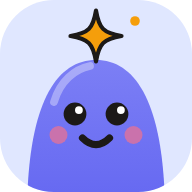
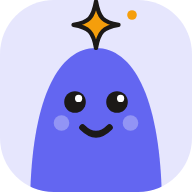
Work map in the Inbox and Plan; Saga mascot drawn exactly like the helpers
- Inbox → Map and Plan → Map: goals → jobs → handed on → waiting on you, left-to-right tree with counts,
  'What needs me' / 'All work', zoom, click to open. Job drawer: 'Where it fits'.
- Saga is now the helpers' own mascot (Chief's indigo, same body/face/tile) with a spark; fixes the invisible body
  (gradient id inside a hidden copy) by using unique ids per drawing.

Claude-Session: https://claude.ai/code/session_01QxtLq7shsGhTDDtPQtDiih

diff --git a/apps/web/components/WorkMap.tsx b/apps/web/components/WorkMap.tsx
@@ -1,0 +1,125 @@
+"use client";
+import { useCallback, useMemo, useState } from "react";
+import Avatar from "@/components/Avatar";
+import { InboxItem, api } from "@/lib/api";
+import { taskItems } from "@/lib/actions";
+import { menu } from "@/lib/menu";
+import { openTask } from "@/lib/open";
+import { usePoll } from "@/lib/poll";
+
+/* The work map: a tree drawn left to right. Your goals → the jobs the Chief of Staff handed out for them → what
+   helpers passed on → what is waiting on you (approvals, questions, alerts). Lines show who came from whom. */
+
+type PNode = { id: string; title: string; staff_id: string; staff: string; status: string; origin: string; created_at: string; headline: string;
+  proposals: { id: string; title: string; status: string }[]; children: PNode[] };
+type PGoal = { id: string; title: string; target: string; due: string; status: string; work: PNode[] };
+type Plan = { goals: PGoal[]; unlinked: PNode[] };
+
+type MNode = { key: string; kind: "goal" | "job" | "need" | "none"; title: string; sub: string; status?: string; staff?: { id: string; name: string };
+  taskId?: string; item?: InboxItem; children: MNode[]; x: number; y: number; need: number };
+
+const COL = 268, W = 228, H = 60, GAP = 14, PAD = 16;
+const NEED: Record<string, [string, string]> = { proposal: ["ri-checkbox-circle-line", "Approve"], question: ["ri-question-line", "Answer"], alert: ["ri-alarm-warning-line", "Alert"] };
+
+function build(plan: Plan, items: InboxItem[], onlyNeeds: boolean): MNode[] {
+  const byTask = new Map<string, InboxItem[]>();
+  for (const i of items) if (i.task_id) byTask.set(i.task_id, [...(byTask.get(i.task_id) || []), i]);
+  const job = (n: PNode): MNode => {
+    const needs: MNode[] = (byTask.get(n.id) || []).map((i) => ({ key: `i-${i.id}`, kind: "need", title: i.title, sub: NEED[i.kind]?.[1] || i.kind, item: i, taskId: n.id,
+      children: [], x: 0, y: 0, need: 1 }));
+    const kids = n.children.map(job);
+    const m: MNode = { key: `t-${n.id}`, kind: "job", title: n.title, sub: n.headline || n.origin, status: n.status, staff: { id: n.staff_id, name: n.staff }, taskId: n.id,
+      children: [...kids, ...needs], x: 0, y: 0, need: needs.length + kids.reduce((a, k) => a + k.need, 0) };
+    return m;
+  };
+  const prune = (ns: MNode[]): MNode[] => (onlyNeeds ? ns.filter((n) => n.need > 0).map((n) => ({ ...n, children: prune(n.children) })) : ns);
+  const roots: MNode[] = plan.goals.filter((g) => g.status === "active" || g.work.length).map((g) => {
+    const kids = g.work.map(job);
+    return { key: `g-${g.id}`, kind: "goal" as const, title: g.title, sub: g.target || (g.due ? `by ${g.due}` : "Set by you"), children: kids, x: 0, y: 0,
+      need: kids.reduce((a, k) => a + k.need, 0) };
+  });
+  const loose = plan.unlinked.map(job);
+  const linked = new Set<string>();
+  const walk = (n: MNode) => { if (n.taskId) linked.add(n.taskId); n.children.forEach(walk); };
+  [...roots, ...loose].forEach(walk);
+  const orphanNeeds: MNode[] = items.filter((i) => !i.task_id || !linked.has(i.task_id)).map((i) => ({ key: `i-${i.id}`, kind: "need", title: i.title,
+    sub: NEED[i.kind]?.[1] || i.kind, item: i, children: [], x: 0, y: 0, need: 1 }));
+  if (loose.length || orphanNeeds.length) {
+    roots.push({ key: "none", kind: "none", title: "Not linked to a goal", sub: "Work you or the team started without a goal", children: [...loose, ...orphanNeeds],
+      x: 0, y: 0, need: loose.reduce((a, k) => a + k.need, 0) + orphanNeeds.length });
+  }
+  return prune(roots);
+}
+
+function layout(roots: MNode[]): { w: number; h: number; all: MNode[] } {
+  let next = PAD, maxDepth = 0;
+  const all: MNode[] = [];
+  const place = (n: MNode, d: number) => {
+    maxDepth = Math.max(maxDepth, d);
+    n.x = PAD + d * COL;
+    if (!n.children.length) { n.y = next; next += H + GAP; }
+    else { n.children.forEach((c) => place(c, d + 1)); n.y = (n.children[0].y + n.children[n.children.length - 1].y) / 2; }
+    all.push(n);
+  };
+  roots.forEach((r) => { place(r, 0); next += GAP * 2; });
+  return { w: PAD * 2 + maxDepth * COL + W, h: Math.max(next, H + PAD * 2), all };
+}
+
+export default function WorkMap({ days = 30, defaultOnlyNeeds = true, onOpenItem }: { days?: number; defaultOnlyNeeds?: boolean; onOpenItem?: (i: InboxItem) => void }) {
+  const [plan, setPlan] = useState<Plan | null>(null);
+  const [items, setItems] = useState<InboxItem[]>([]);
+  const [onlyNeeds, setOnlyNeeds] = useState(defaultOnlyNeeds);
+  const [zoom, setZoom] = useState(1);
+  const load = useCallback(async () => {
+    const [p, i] = await Promise.all([api<Plan>(`/plan?days=${days}`), api<InboxItem[]>("/inbox?status=open")]);
+    setPlan(p); setItems(i);
+  }, [days]);
+  usePoll(load, 20000, [load], (n) => n?.kind === "inbox" || n?.kind?.startsWith("job"));
+  const { w, h, all } = useMemo(() => (plan ? layout(build(plan, items, onlyNeeds)) : { w: 0, h: 0, all: [] }), [plan, items, onlyNeeds]);
+  if (!plan) return <p className="small">Loading…</p>;
+
+  const open = (n: MNode) => {
+    if (n.kind === "need" && n.item) { if (onOpenItem) onOpenItem(n.item); else if (n.taskId) openTask(n.taskId, "approvals"); }
+    else if (n.taskId) openTask(n.taskId);
+  };
+  const edges = all.flatMap((n) => n.children.map((c) => {
+    const x1 = n.x + W, y1 = n.y + H / 2, x2 = c.x, y2 = c.y + H / 2, mx = (x1 + x2) / 2;
+    return <path key={`${n.key}>${c.key}`} d={`M${x1} ${y1} C${mx} ${y1}, ${mx} ${y2}, ${x2} ${y2}`} className={`wm-e ${c.kind === "need" ? "need" : ""}`} />;
+  }));
+  return (
+    <div className="wm">
+      <div className="wm-bar">
+        <div className="seg">
+          <button className={onlyNeeds ? "on" : ""} onClick={() => setOnlyNeeds(true)}>What needs me</button>
+          <button className={!onlyNeeds ? "on" : ""} onClick={() => setOnlyNeeds(false)}>All work ({days} days)</button>
+        </div>
+        <span className="small wm-legend"><i className="ri-flag-2-line" /> your goal <span>›</span> job <span>›</span> handed on <span>›</span> <b className="wm-need-dot" /> waiting on you</span>
+        <span className="sp" />
+        <button className="iconbtn" aria-label="Zoom out" onClick={() => setZoom(Math.max(0.5, zoom - 0.15))}><i className="ri-zoom-out-line" /></button>
+        <button className="iconbtn" aria-label="Zoom in" onClick={() => setZoom(Math.min(1.5, zoom + 0.15))}><i className="ri-zoom-in-line" /></button>
+      </div>
+      {all.length === 0 ? (
+        <div className="empty"><b>{onlyNeeds ? "Nothing waiting on you" : "No work yet"}</b><span>{onlyNeeds ? "Switch to All work to see everything that is going on." : "Jobs show up here as the team works."}</span></div>
+      ) : (
+        <div className="wm-scroll">
+          <div className="wm-canvas" style={{ width: w * zoom, height: h * zoom }}>
+            <div style={{ width: w, height: h, transform: `scale(${zoom})`, transformOrigin: "0 0", position: "relative" }}>
+              <svg width={w} height={h} className="wm-svg">{edges}</svg>
+              {all.map((n) => (
+                <div key={n.key} className={`wm-n ${n.kind} ${n.status || ""} ${n.item ? `k-${n.item.kind}` : ""}`} style={{ left: n.x, top: n.y, width: W, height: H }}
+                  role="button" tabIndex={0} onClick={() => open(n)} onKeyDown={(e) => { if (e.key === "Enter") open(n); }}
+                  onContextMenu={n.kind === "job" && n.taskId ? menu(() => taskItems({ id: n.taskId!, staff_id: n.staff!.id, brief: n.title, status: n.status || "" }, n.staff!.name)) : undefined}>
+                  {n.kind === "goal" || n.kind === "none" ? <span className="wm-ic"><i className={n.kind === "goal" ? "ri-flag-2-line" : "ri-question-line"} /></span>
+                    : n.kind === "need" ? <span className="wm-ic need"><i className={NEED[n.item?.kind || ""]?.[0] || "ri-inbox-line"} /></span>
+                    : <Avatar who={n.staff} size={24} state={n.status === "running" ? "working" : null} />}
+                  <span className="wm-t"><b>{n.title}</b><span>{n.kind === "job" ? `${n.staff?.name} · ${n.status}` : n.sub}</span></span>
+                  {n.need > 0 && n.kind !== "need" && <span className="wm-badge" title={`${n.need} waiting on you below`}>{n.need}</span>}
+                </div>
+              ))}
+            </div>
+          </div>
+        </div>
+      )}
+    </div>
+  );
+}

diff --git a/apps/web/app/globals.css b/apps/web/app/globals.css
@@ -1130,3 +1130,40 @@ button.pg-head { border: 0; background: none; padding: 0; text-align: left; curs
 .lin .lin-goal + .lin-job, .lin .lin-sep + .lin-job { flex: 1 1 auto; }
 .lin-sep, .lin-more { flex-shrink: 0; color: var(--faint); }
 .lin.plain { display: flex; gap: 6px; margin: 0 0 2px; font-size: 11px; } .lin.plain > span { display: inline-flex; align-items: center; gap: 3px; min-width: 0; max-width: 50%; overflow: hidden; text-overflow: ellipsis; white-space: nowrap; } .lin.plain .lin-goal { color: #15803d; background: none; }
+
+/* work map: goals → jobs → handed on → waiting on you */
+.wm { display: flex; flex-direction: column; gap: 10px; }
+.wm-bar { display: flex; align-items: center; gap: 10px; flex-wrap: wrap; }
+.wm-legend { display: inline-flex; align-items: center; gap: 5px; }
+.wm-legend span { color: var(--faint); }
+.wm-need-dot { width: 8px; height: 8px; border-radius: 50%; background: #eb6834; display: inline-block; }
+.wm-scroll { overflow: auto; border: 1px solid var(--line); border-radius: var(--r-lg); background:
+  radial-gradient(circle, rgba(168, 162, 158, .25) 1px, transparent 1.2px) 0 0 / 18px 18px, var(--soft); max-height: calc(100dvh - 250px); min-height: 320px; }
+.wm-canvas { position: relative; }
+.wm-svg { position: absolute; inset: 0; pointer-events: none; }
+.wm-e { fill: none; stroke: #d6d3d1; stroke-width: 1.5; }
+.wm-e.need { stroke: #f4a37a; stroke-dasharray: 4 3; }
+.wm-n { position: absolute; display: flex; align-items: center; gap: 9px; padding: 8px 10px; background: var(--surface); border: 1px solid var(--line-strong);
+  border-radius: 12px; box-shadow: 0 1px 2px rgba(28, 25, 23, .05); cursor: pointer; text-align: left; }
+.wm-n:hover { border-color: var(--faint); box-shadow: 0 4px 14px rgba(28, 25, 23, .08); }
+.wm-n.goal { background: #f0fdf4; border-color: #bbf7d0; }
+.wm-n.none { background: var(--soft); border-style: dashed; }
+.wm-n.need { background: #fff7ed; border-color: #fdba74; }
+.wm-n.need.k-alert { background: #fef2f2; border-color: #fecaca; }
+.wm-n.failed { border-color: #fecaca; }
+.wm-n.running { border-color: #bfdbfe; }
+.wm-ic { width: 26px; height: 26px; border-radius: 8px; display: grid; place-items: center; flex-shrink: 0; background: #dcfce7; color: #15803d; font-size: 15px; }
+.wm-n.none .wm-ic { background: #f5f5f4; color: var(--muted); }
+.wm-ic.need { background: #ffedd5; color: #c2410c; }
+.wm-n.k-alert .wm-ic.need { background: #fee2e2; color: #b91c1c; }
+.wm-t { flex: 1; min-width: 0; display: flex; flex-direction: column; line-height: 1.25; }
+.wm-t b { font-weight: 500; font-size: 13px; overflow: hidden; text-overflow: ellipsis; white-space: nowrap; }
+.wm-t span { font-size: 11.5px; color: var(--muted); overflow: hidden; text-overflow: ellipsis; white-space: nowrap; }
+.wm-badge { min-width: 20px; height: 20px; padding: 0 6px; border-radius: 999px; background: #eb6834; color: #fff; font-size: 11px; font-weight: 600;
+  display: grid; place-items: center; flex-shrink: 0; }
+.jd-tree { list-style: none; margin: 6px 0 0; padding: 0; display: flex; flex-direction: column; gap: 4px; font-size: 13px; }
+.jd-tree li { display: flex; align-items: center; gap: 6px; min-width: 0; }
+.jd-tree li > :is(a, b, .lnk) { overflow: hidden; text-overflow: ellipsis; white-space: nowrap; min-width: 0; }
+.jd-tree li i { color: var(--faint); flex-shrink: 0; }
+.jd-tree li.g i, .jd-tree li.g a { color: #15803d; }
+.jd-tree li.me b { font-weight: 600; }

diff --git a/apps/web/components/Avatar.tsx b/apps/web/components/Avatar.tsx
@@ -1,5 +1,5 @@
 "use client";
-import { useEffect, useState } from "react";
+import { useEffect, useId, useState } from "react";
 import { BASE, api } from "@/lib/api";
 
 /* Each helper gets its own little character: an original mascot drawn in SVG, always the same for that helper
@@ -108,18 +108,20 @@ function Prop({ prop }: { prop: string }) {
     case "antenna": return <g><path d="M32 16 V8" stroke={INK} strokeWidth="2.2" strokeLinecap="round" /><circle cx="32" cy="7" r="3" fill="#f43f5e" stroke={INK} strokeWidth="1.4" /></g>;
     case "sprout": return <g stroke={INK} strokeWidth="1.5" strokeLinejoin="round"><path d="M32 17 V10" fill="none" strokeWidth="2" /><path d="M32 12 C26 12 23 8 23 5 C29 5 32 8 32 12 Z" fill="#4ade80" /><path d="M32 11 C37 11 40 7.5 40 5 C35 5 32 7.5 32 11 Z" fill="#22c55e" /></g>;
     case "beret": return <g><path d="M17 22 C17 13 47 11 49 20 C49 24 17 26 17 22 Z" fill="#1c1917" /><circle cx="33" cy="12.5" r="2" fill="#1c1917" /></g>;
+    case "spark": return <g><path d="M32 0.5 C33 6 34.3 7.4 39.5 8.3 C34.3 9.2 33 10.6 32 16 C31 10.6 29.7 9.2 24.5 8.3 C29.7 7.4 31 6 32 0.5 Z" fill="#f59e0b" stroke={INK} strokeWidth="1.4" strokeLinejoin="round" /><circle cx="44" cy="5" r="1.6" fill="#f59e0b" /></g>;
     case "magnifier": return <g stroke={INK} strokeLinecap="round"><circle cx="49" cy="49" r="6.5" fill="#fff" fillOpacity=".7" strokeWidth="2.2" /><path d="M53.5 53.5 L59 59" strokeWidth="3" /></g>;
     default: return null;
   }
 }
 
-export function Mascot({ look, size = 32, sleeping = false, title }: { look: ReturnType<typeof lookFor>; size?: number; sleeping?: boolean; title?: string }) {
+export function Mascot({ look, size = 32, sleeping = false, title, bare }: { look: ReturnType<typeof lookFor>; size?: number; sleeping?: boolean; title?: string; bare?: boolean }) {
+  const clip = `tile-${useId().replace(/:/g, "")}`;  // unique per drawing: a shared id breaks when the first copy is hidden
   if (look.image) return <img className="mascot img" src={look.image.startsWith("fil_") ? `${BASE}/api/files/${look.image}` : look.image} alt={title || ""} width={size} height={size} />;
   return (
     <svg className="mascot" width={size} height={size} viewBox="0 0 64 64" role="img" aria-label={title || "helper"}>
-      <defs><clipPath id="tile"><rect width="64" height="64" rx="18" /></clipPath></defs>
-      <g clipPath="url(#tile)">
-        <rect width="64" height="64" fill={look.color} opacity=".16" />
+      <defs><clipPath id={clip}><rect width="64" height="64" rx="18" /></clipPath></defs>
+      <g clipPath={bare ? undefined : `url(#${clip})`}>
+        {!bare && <rect width="64" height="64" fill={look.color} opacity=".16" />}
         <Body shape={look.shape} color={look.color} />
         <Face sleeping={sleeping} />
         <Prop prop={look.prop} />

diff --git a/apps/web/components/Logo.tsx b/apps/web/components/Logo.tsx
@@ -1,35 +1,13 @@
-/* The Saga OS mark: Saga, the house mascot. Same family and colours as the helpers (the Chief of Staff's indigo,
-   dot eyes, rosy cheeks) with a warm spark on top: the one who keeps the company going. */
+"use client";
+import { Mascot } from "@/components/Avatar";
 
-export const SAGA_BODY = "#6366f1";   // the Chief's indigo
-export const SAGA_TILE = "#e0e7ff";   // indigo-100
-export const SAGA_SPARK = "#f59e0b";
-export const SAGA_INK = "#1c1917";
+/* The Saga OS mark: Saga, the house mascot. Drawn exactly like the helpers (the same body, face and tile), in the
+   Chief of Staff's indigo, with a warm spark on top instead of a crown: the one who keeps the company going. */
+
+export const SAGA_LOOK = { color: "#6366f1", shape: "blob", prop: "spark", image: null } as const;
 
 export function SagaMascot({ size = 24, tile = true, title = "Saga OS" }: { size?: number; tile?: boolean; title?: string }) {
-  return (
-    <svg className="saga-mark" width={size} height={size} viewBox="0 0 64 64" role="img" aria-label={title}>
-      <defs>
-        <clipPath id="saga-tile"><rect width="64" height="64" rx="18" /></clipPath>
-        <linearGradient id="saga-body" x1="0" y1="0" x2="0" y2="1"><stop offset="0" stopColor="#7c7ff5" /><stop offset="1" stopColor={SAGA_BODY} /></linearGradient>
-      </defs>
-      <g clipPath={tile ? "url(#saga-tile)" : undefined}>
-        {tile && <rect width="64" height="64" fill={SAGA_TILE} />}
-        {/* body */}
-        <path d="M9 72 C9 36 18 20 32 20 C46 20 55 36 55 72 Z" fill="url(#saga-body)" />
-        <path d="M18 34 C20 27 25 23 30 22" stroke="#fff" strokeOpacity=".35" strokeWidth="2.6" strokeLinecap="round" fill="none" />
-        {/* eyes */}
-        <circle cx="25" cy="38" r="3.8" fill={SAGA_INK} /><circle cx="39" cy="38" r="3.8" fill={SAGA_INK} />
-        <circle cx="26.3" cy="36.7" r="1.3" fill="#fff" /><circle cx="40.3" cy="36.7" r="1.3" fill="#fff" />
-        {/* smile and cheeks */}
-        <path d="M27.5 46 Q32 50.5 36.5 46" stroke={SAGA_INK} strokeWidth="2.4" strokeLinecap="round" fill="none" />
-        <circle cx="19.5" cy="45" r="3" fill="#fb7185" opacity=".65" /><circle cx="44.5" cy="45" r="3" fill="#fb7185" opacity=".65" />
-        {/* the spark */}
-        <path d="M32 3.5 C33 9.5 34.5 11 40.5 12 C34.5 13 33 14.5 32 20.5 C31 14.5 29.5 13 23.5 12 C29.5 11 31 9.5 32 3.5 Z" fill={SAGA_SPARK} stroke={SAGA_INK} strokeWidth="1.4" strokeLinejoin="round" />
-        <circle cx="45" cy="7" r="1.6" fill={SAGA_SPARK} />
-      </g>
-    </svg>
-  );
+  return <Mascot look={SAGA_LOOK as any} size={size} title={title} bare={!tile} />;
 }
 
 /** The mark next to the product or company name. */

diff --git a/apps/web/components/TaskDrawer.tsx b/apps/web/components/TaskDrawer.tsx
@@ -8,7 +8,7 @@ import InboxItemDetail from "@/components/InboxItemDetail";
 import { Markdown } from "@/components/Markdown";
 import { RunCard, toRuns, useEvents } from "@/components/Run";
 import { Err, StatusChip } from "@/components/ui";
-import { InboxItem, Staff, Task, ago, api } from "@/lib/api";
+import { BASE, InboxItem, Staff, Task, ago, api } from "@/lib/api";
 import { usePoll } from "@/lib/poll";
 import { taskItems } from "@/lib/actions";
 import Lineage from "@/components/Lineage";
@@ -78,6 +78,17 @@ function JobBody({ id, staff, tab, setTab, onOpenTask }: { id: string; staff: St
             <div className="jd-list"><div className="small">Proposals</div>
               {t.proposals.map((p) => <div key={p.id} className="acts" style={{ margin: "4px 0" }}><StatusChip status={p.status} /><span>{p.title}</span></div>)}</div>
           )}
+          {((t as any).lineage?.goal || (t as any).lineage?.parents?.length || t.children?.length) ? (
+            <div className="jd-list"><div className="small">Where it fits</div>
+              <ul className="jd-tree">
+                {(t as any).lineage?.goal && <li className="g"><i className="ri-flag-2-line" /><a href={`${BASE}/plan/`}>{(t as any).lineage.goal.title}</a></li>}
+                {((t as any).lineage?.parents || []).filter((p: any) => p.id !== t.id).map((p: any, k: number) => (
+                  <li key={p.id} style={{ paddingLeft: (k + ((t as any).lineage?.goal ? 1 : 0)) * 14 }}><i className="ri-corner-down-right-line" /><button className="lnk" onClick={() => onOpenTask(p.id)}>{p.title}</button><span className="small">{p.staff}</span></li>))}
+                <li className="me" style={{ paddingLeft: (((t as any).lineage?.parents || []).filter((p: any) => p.id !== t.id).length + ((t as any).lineage?.goal ? 1 : 0)) * 14 }}><i className="ri-corner-down-right-line" /><b>{lines[0].slice(0, 90)}</b><span className="small">this job</span></li>
+                {(t.children || []).map((c) => (
+                  <li key={c.id} className="kid" style={{ paddingLeft: (((t as any).lineage?.parents || []).filter((p: any) => p.id !== t.id).length + ((t as any).lineage?.goal ? 2 : 1)) * 14 }}><i className="ri-corner-down-right-line" /><button className="lnk" onClick={() => onOpenTask(c.id)}>{c.brief.split("\n")[0].slice(0, 80)}</button><StatusChip status={c.status} /></li>))}
+              </ul></div>
+          ) : null}
           {!!t.children?.length && (
             <div className="jd-list"><div className="small">Handed off to</div>
               {t.children.map((c) => (

diff --git a/apps/web/app/page.tsx b/apps/web/app/page.tsx
@@ -5,6 +5,7 @@ import { useCallback, useEffect, useState } from "react";
 import Avatar from "@/components/Avatar";
 import Drawer from "@/components/Drawer";
 import Lineage from "@/components/Lineage";
+import WorkMap from "@/components/WorkMap";
 import InboxItemDetail from "@/components/InboxItemDetail";
 import { useOverview } from "@/components/Shell";
 import { Empty, Err, StatusChip } from "@/components/ui";
@@ -200,9 +201,9 @@ function ListView({ onCount }: { onCount: () => void }) {
 
 export default function Inbox() {
   const { refresh } = useOverview();
-  const [view, setView] = useState<"board" | "list">("board");
-  useEffect(() => { try { const v = localStorage.getItem("saga.inbox.view"); if (v === "list" || v === "board") setView(v); } catch { /* ignore */ } }, []);
-  const pick = (v: "board" | "list") => { setView(v); try { localStorage.setItem("saga.inbox.view", v); } catch { /* ignore */ } };
+  const [view, setView] = useState<"board" | "list" | "map">("board");
+  useEffect(() => { try { const v = localStorage.getItem("saga.inbox.view"); if (v === "list" || v === "board" || v === "map") setView(v); } catch { /* ignore */ } }, []);
+  const pick = (v: "board" | "list" | "map") => { setView(v); try { localStorage.setItem("saga.inbox.view", v); } catch { /* ignore */ } };
   return (
     <div className="inbox-page">
       <div className="sechead" style={{ alignItems: "flex-end", marginBottom: 16 }}>
@@ -212,9 +213,10 @@ export default function Inbox() {
         <div className="seg" role="tablist" aria-label="View">
           <button role="tab" aria-selected={view === "board"} className={view === "board" ? "on" : ""} onClick={() => pick("board")}><i className="ri-layout-column-line" /> Board</button>
           <button role="tab" aria-selected={view === "list"} className={view === "list" ? "on" : ""} onClick={() => pick("list")}><i className="ri-list-unordered" /> List</button>
+          <button role="tab" aria-selected={view === "map"} className={view === "map" ? "on" : ""} onClick={() => pick("map")}><i className="ri-node-tree" /> Map</button>
         </div>
       </div>
-      {view === "board" ? <BoardView onCount={refresh} /> : <ListView onCount={refresh} />}
+      {view === "board" ? <BoardView onCount={refresh} /> : view === "list" ? <ListView onCount={refresh} /> : <WorkMap />}
     </div>
   );
 }

diff --git a/apps/web/app/plan/page.tsx b/apps/web/app/plan/page.tsx
@@ -2,6 +2,7 @@
 import { useCallback, useState } from "react";
 import Avatar from "@/components/Avatar";
 import Drawer from "@/components/Drawer";
+import WorkMap from "@/components/WorkMap";
 import { Err, StatusChip } from "@/components/ui";
 import { ago, api } from "@/lib/api";
 import { taskItems } from "@/lib/actions";
@@ -60,6 +61,7 @@ export default function PlanPage() {
   const [days, setDays] = useState(30);
   const [form, setForm] = useState<Form | null>(null);
   const [showLoose, setShowLoose] = useState(false);
+  const [asMap, setAsMap] = useState(false);
   const [err, setErr] = useState<string | null>(null);
   const load = useCallback(async () => { try { setPlan(await api<Plan>(`/plan?days=${days}`)); setErr(null); } catch (e: any) { setErr(e.message); } }, [days]);
   usePoll(load, () => (plan?.goals.some((g) => (g.progress.running || 0) + (g.progress.queued || 0) > 0) ? 5000 : 30000), [load],
@@ -91,11 +93,13 @@ export default function PlanPage() {
         <div><h1 style={{ marginBottom: 4 }}>Plan</h1>
           <p className="sub" style={{ margin: 0 }}>Your goals at the top. Under each: what the Chief of Staff handed out for it, what helpers passed on, and what is being done with your approval.</p></div>
         <span className="sp" />
+        <div className="seg"><button className={!asMap ? "on" : ""} onClick={() => setAsMap(false)}><i className="ri-list-check-3" /> Tree</button>
+          <button className={asMap ? "on" : ""} onClick={() => setAsMap(true)}><i className="ri-node-tree" /> Map</button></div>
         <div className="seg">{[[7, "7 days"], [30, "30 days"], [90, "90 days"]].map(([d, l]) => <button key={d} className={days === d ? "on" : ""} onClick={() => setDays(d as number)}>{l}</button>)}</div>
         <button className="btn primary" onClick={() => edit()}><i className="ri-add-line" />New goal</button>
       </div>
       <Err error={err} />
-      {!plan ? <p className="small">Loading…</p> : (
+      {asMap ? <div style={{ marginTop: 18 }}><WorkMap days={days} defaultOnlyNeeds={false} /></div> : !plan ? <p className="small">Loading…</p> : (
         <>
           {plan.goals.length === 0 && (
             <div className="empty"><b>No goals yet</b><span>Add what you want to reach. The Chief of Staff links the work it hands out to these goals.</span>

diff --git a/README.md b/README.md
@@ -123,6 +123,11 @@ proposals you approved, and the regular jobs you linked to the goal. A new job f
 else its parent's, else its regular job's). Goals picked in onboarding become the first goals. Right-click a job to move it
 under another goal; the job drawer shows which goal it serves.
 
+**Inbox → Map** (and Plan → Map) draws the same hierarchy as a tree from left to right: your goals → the jobs handed out for
+them → what helpers passed on → what is waiting on you, with a count on every branch. "What needs me" shows only branches that
+end in an approval, question or alert; "All work" shows everything. Click a box to open it. The job drawer shows "Where it fits":
+goal, the jobs above, this job, and the jobs it handed on.
+
 Every card shows where it comes from: a small line on top with the goal (opens the Plan) and the job above it (opens that job),
 on the Inbox board and list, the Workspace job list, the job page and the job drawer.
 
